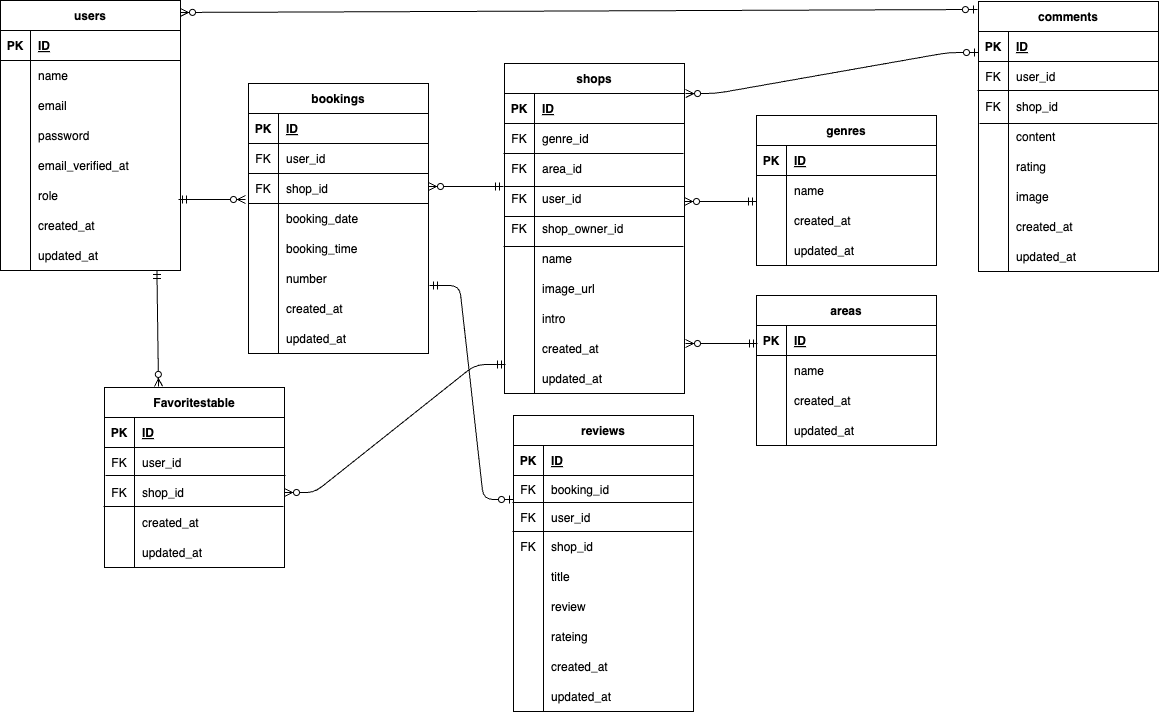
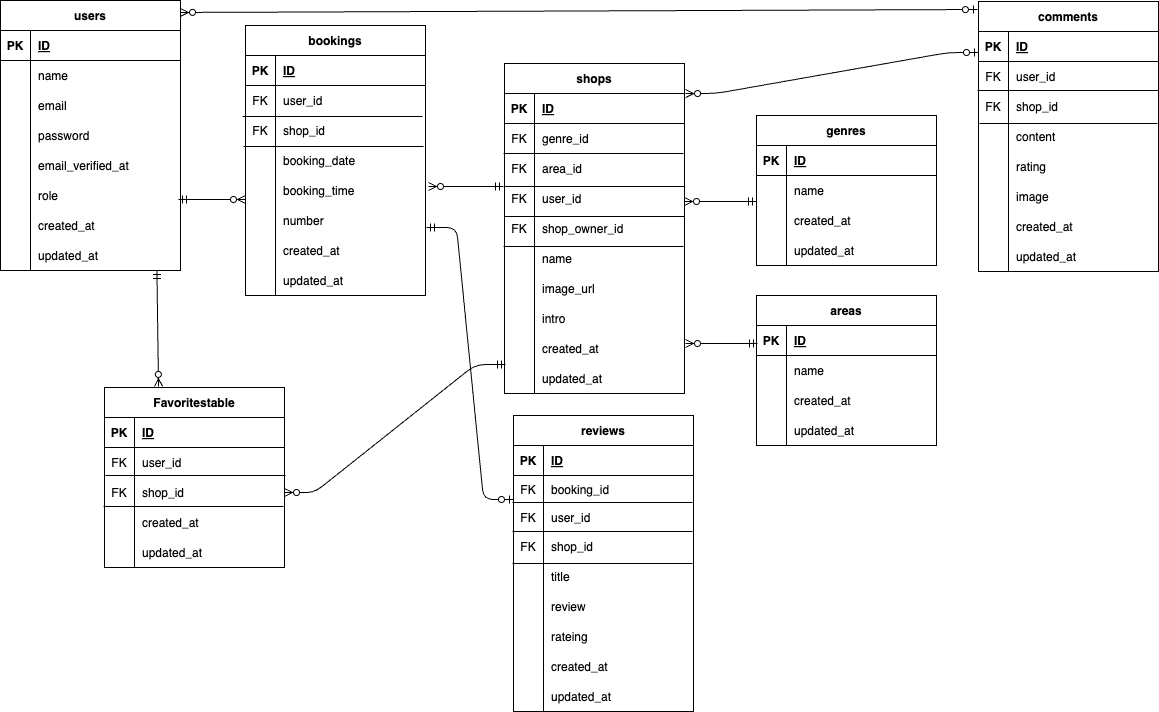
READ ME

diff --git a/src/public/js/form.js b/src/public/js/form.js
@@ -18,7 +18,7 @@ const stars = document.querySelectorAll('.star');
             }
 
             stars.forEach(s => {
-                s.style.color = s.getAttribute('data-value') <= currentRating ? 'gold' : 'lightgray';
+                s.style.color = s.getAttribute('data-value') <= currentRating ? 'rgb(63, 90, 242)'  : 'lightgray';
             });
         });
     });

diff --git a/src/public/js/index.js b/src/public/js/index.js
@@ -1,7 +1,7 @@
 function changeColor(element) {
     const heartIcon = element.querySelector('.fa-heart');
     const isFavorited = heartIcon.classList.contains('active');
-    
+
     if (isFavorited) {
         heartIcon.classList.remove('active');
         element.setAttribute('data-favorited', 'false');

diff --git a/src/public/css/commentsIndex.css b/src/public/css/commentsIndex.css
@@ -13,7 +13,7 @@
 
 .sort-options {
     display: flex;
-    justify-content: flex-end; /* 右端に配置 */
+    justify-content: flex-end;
     align-items: center;
     margin-bottom: 20px;
 }

diff --git a/src/routes/web.php b/src/routes/web.php
@@ -62,7 +62,6 @@ Route::middleware(['auth','verified'])->group(function () {
     Route::get('/review/{id}/edit', [ReviewController::class, 'editReview'])->name('review.edit');
     Route::patch('/review/{id}', [ReviewController::class, 'updateReview'])->name('review.update');
     Route::delete('/review/{id}', [ReviewController::class, 'deleteReview'])->name('review.delete');
-
     Route::get('/shop/{shop}/createComment', [CommentController::class, 'create'])->name('shop.createComment');
     Route::post('/shop/{shop}/comments', [CommentController::class, 'store'])->name('comments.store');
     Route::get('/shop/{shop}/comments/{comment}/detailComment', [CommentController::class, 'detailComment'])->name('shop.detailComment');
@@ -114,6 +113,4 @@ Route::middleware('auth')->prefix('shop_owner')->group(function () {
 
 Route::get('/payment/create/{bookingId}', [PaymentController::class, 'create'])->name('payment.create');
 Route::post('/payment/store', [PaymentController::class, 'store'])->name('payment.store');
-
-
 });

diff --git a/src/app/Http/Controllers/CommentController.php b/src/app/Http/Controllers/CommentController.php
@@ -3,12 +3,10 @@
 namespace App\Http\Controllers;
 
 use App\Models\Shop;
-use App\Models\Booking;
 use App\Models\Comment;
 use Illuminate\Support\Facades\Auth;
 use Illuminate\Http\Request;
 use App\Http\Requests\CommentRequest;
-use Illuminate\Support\Facades\Log;
 
 class CommentController extends Controller
 {

diff --git a/src/app/Models/Booking.php b/src/app/Models/Booking.php
@@ -28,9 +28,4 @@ class Booking extends Model
     public function review() {
         return $this->hasOne(Review::class);
     }
-
-    public function comments() {
-        return $this->hasOne(Comment::class);
-    }
-
 }

diff --git a/src/app/Models/Comment.php b/src/app/Models/Comment.php
@@ -24,8 +24,4 @@ class Comment extends Model
     public function shop() {
         return $this->belongsTo(Shop::class);
     }
-
-    public function booking() {
-        return $this->belongsTo(Booking::class);
-    }
 }

diff --git a/src/app/Models/Favorite.php b/src/app/Models/Favorite.php
@@ -9,7 +9,7 @@ class Favorite extends Model
 {
     use HasFactory;
 
-    protected $fillable = [ 
+    protected $fillable = [
         'user_id',
         'shop_id',
     ];

diff --git a/src/app/Models/Genre.php b/src/app/Models/Genre.php
@@ -9,7 +9,7 @@ class Genre extends Model
 {
     use HasFactory;
 
-    protected $fillable = [ 
+    protected $fillable = [
         'name'
     ];
 

diff --git a/src/app/Models/Area.php b/src/app/Models/Area.php
@@ -9,7 +9,7 @@ class Area extends Model
 {
     use HasFactory;
 
-    protected $fillable = [ 
+    protected $fillable = [
         'name'
     ];
 

diff --git a/README.md b/README.md
@@ -27,6 +27,7 @@ http://15.168.189.188
 #### ユーザー機能 : お気に入りの飲食店や予約情報をマイページにてまとめて表示。
    - 予約日時や人数を簡単に変更できる予約変更機能。
    - 利用したお店を5段階で評価し、コメントを投稿することが可能。
+   - レビュー評価とは別に「口コミ」機能を追加、表示中の店舗だけでなく全店舗の口コミを閲覧可能に。
 
 #### 管理者機能 : 管理者は店舗代表者の登録、管理、削除が行え、CSVファイルを使って店舗情報を一度に登録が可能。
    ##### CSVファイルの記述方法
